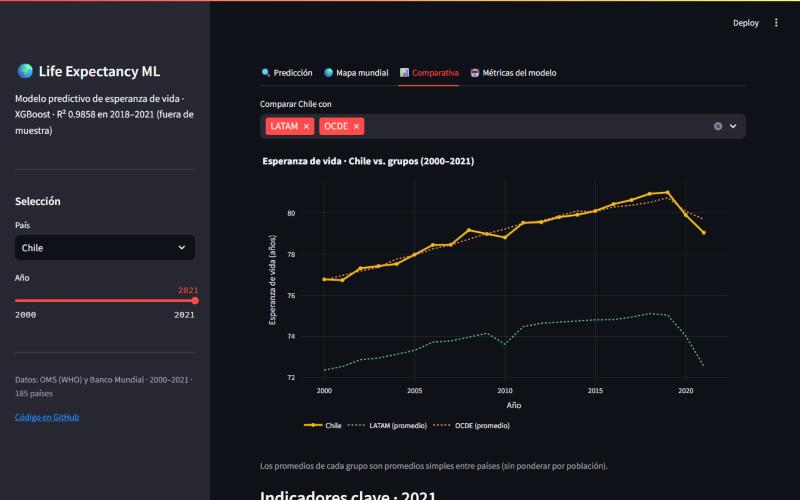
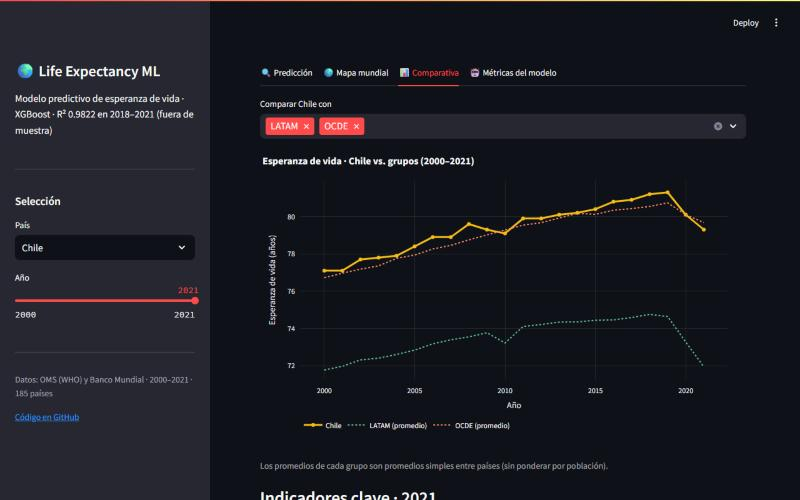
docs(readme): actualizacion de README

diff --git a/README.md b/README.md
@@ -16,14 +16,14 @@ Machine learning model that predicts **life expectancy at birth** for 185 countr
 
 | Evaluation | R² | RMSE | MAE |
 |---|---|---|---|
-| **Temporal split** (train 2000–2017, test 2018–2021) | **0.9858** | **0.861 years** | **0.625 years** |
-| Random split 80/20 | 0.9976 | 0.416 years | 0.297 years |
+| **Temporal split** (train 2000–2017, test 2018–2021) | **0.9822** | **0.974 years** | **0.645 years** |
+| Random split 80/20 | 0.9970 | 0.458 years | 0.308 years |
 
-The temporal split is the reference metric: the model predicts years it has never seen, which is how it would be used in practice. The random split is shown for comparison only; it is optimistic because the same country appears in both train and test in neighboring years.
+The temporal split is the reference metric: the model predicts years it has never seen, which is how it would be used in practice. The random split is shown for comparison only; it is optimistic because the same country appears in both train and test in neighboring years. Most of the out-of-sample error comes from 2020–2021, when COVID-19 caused sudden drops that the indicators do not capture.
 
-**Most influential features (mean |SHAP|):** adult mortality, infant mortality, child anemia prevalence and GDP per capita (log).
+**Most influential features (mean |SHAP|):** adult mortality, under-five mortality, child anemia prevalence and GDP per capita (log).
 
-**Chile:** consistently above the Latin America average and at OECD level (79.0 vs. 72.5 LATAM and 79.7 OECD in 2021). The 2020–2021 drop matches the impact of COVID-19.
+**Chile:** consistently above the Latin America average and at OECD level (79.3 vs. 72.0 LATAM and 79.7 OECD in 2021). The 2020–2021 drop matches the impact of COVID-19.
 
 ## Dashboard
 
@@ -40,10 +40,10 @@ The temporal split is the reference metric: the model predicts years it has neve
 
 | Source | Indicators |
 |---|---|
-| WHO Global Health Observatory API | Life expectancy (target), infant and adult mortality, people living with HIV, DTP and hepatitis B vaccination, physicians per 10,000, child anemia |
-| World Bank API (`wbgapi`) | GDP per capita, health and education spending (% GDP), access to drinking water, sanitation and electricity, unemployment, urbanization, internet users |
+| WHO Global Health Observatory API | Life expectancy (target), under-five and adult mortality, DTP and hepatitis B vaccination, physicians per 10,000, child anemia |
+| World Bank API (`wbgapi`) | GDP per capita, health and education spending (% GDP), access to drinking water, sanitation and electricity, unemployment, urbanization, internet users, HIV prevalence (% ages 15–49) |
 
-Final dataset: **4,070 rows · 185 countries · 2000–2021**. Countries are merged by ISO-3 code and year; missing values are imputed with the median of their UN region and year.
+Final dataset: **4,070 rows · 185 countries · 2000–2021**. WHO values are filtered to both sexes. Countries are merged by ISO-3 code and year; missing values are filled with the last known value of the same country (past only, so the temporal evaluation stays clean) and then with the median of their UN region and year.
 
 ## Methodology
 
@@ -85,8 +85,9 @@ streamlit run dashboard/app.py
 
 ## Limitations
 
-- The WHO HIV indicator used is the **estimated number of people living with HIV** (an absolute count), not a prevalence rate, so it partly reflects population size.
-- Missing values are imputed with regional medians, which smooths differences between countries with sparse data.
+- The period ends in 2021 because the WHO has not published adult mortality, the most important feature, for later years.
+- The WHO child anemia series ends in 2019, so 2020–2021 reuse each country's 2019 value.
+- About 20% of HIV prevalence values are imputed: 36 countries have no World Bank data, mostly low-prevalence ones.
 - Group averages in the dashboard are simple country averages, not weighted by population.
 
 ## Author
